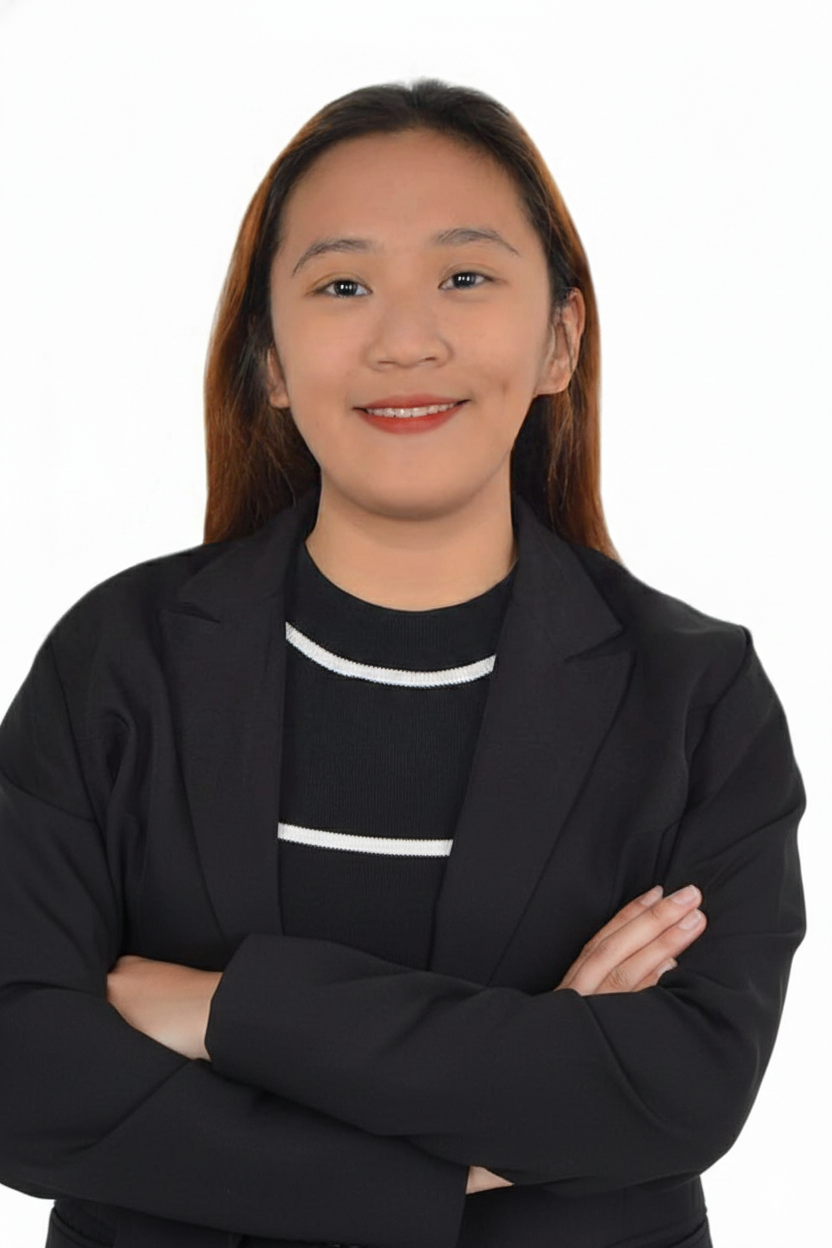
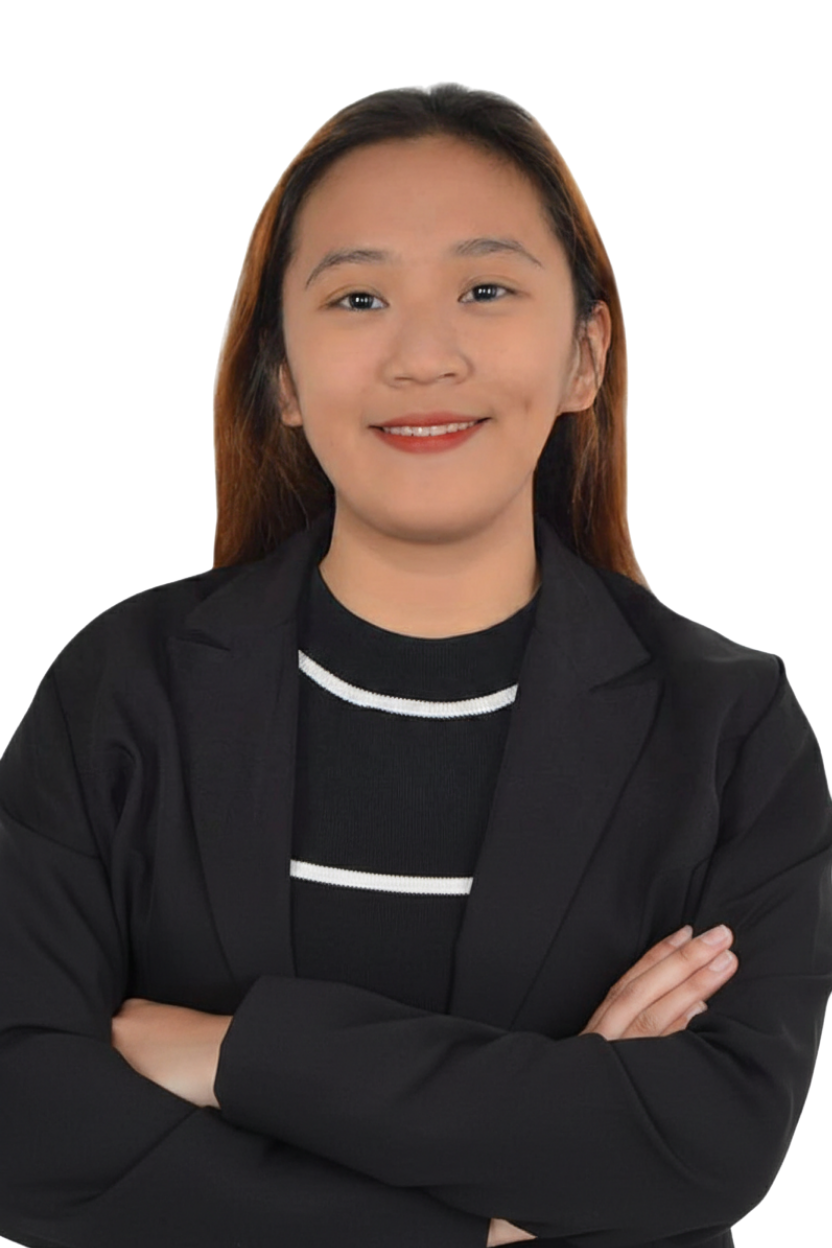
Enhance v5

diff --git a/my-portfolio/src/App.js b/my-portfolio/src/App.js
@@ -1,9 +1,10 @@
-import React, { useState } from 'react';
-import AboutMe from './AboutMePage';
+import React, { useState} from 'react';
+import AboutMe from './LearnMore';
 import userImage from './assets/profile-img.png';
+import userProfile from './assets/user-image.png';
 import resumePDF from './assets/FELICES-FEBY_CV.pdf';
 import useDarkMode from './useDarkMode';
-import { Sun, Moon } from 'lucide-react';
+
 
 // Import Certificate PDFs
 import ccna1PDF from './assets/CCNA_1.pdf';
@@ -17,7 +18,8 @@ import {
   Mail, Phone, ExternalLink, Globe, Shield, 
   Award, ChevronRight, Zap, Github, Linkedin,
   Heart, Brain, Settings, CheckCircle, FileText, 
-  Trophy, BookOpen, Star, X, Cpu 
+  Trophy, BookOpen, Star, X, Cpu, User,
+  Sun, Moon
 } from 'lucide-react';
 
 function App() {
@@ -61,11 +63,12 @@ function App() {
 
             {/* Right Side Items */}
             <div className="hidden md:flex gap-8 text-sm font-bold uppercase tracking-widest text-slate-600 dark:text-slate-300 items-center">
-              <a href="#about" className="hover:text-rose-500 dark:hover:text-rose-400 transition-colors">About</a>
+              <a href="#home" className="hover:text-rose-500 dark:hover:text-rose-400 transition-colors">Home</a>
+              <a href="#about-me" className="hover:text-rose-500 dark:hover:text-rose-400 transition-colors">About</a>
               <a href="#skills" className="hover:text-rose-500 dark:hover:text-rose-400 transition-colors">Skills</a>
               <a href="#awards" className="hover:text-rose-500 dark:hover:text-rose-400 transition-colors">Awards</a>
               <a href="#projects" className="hover:text-rose-500 dark:hover:text-rose-400 transition-colors">Projects</a>
-              {/* Contact Button */}
+                {/* Contact Button */}
               <a 
                 href="#contact" 
                 className="bg-rose-500 text-white px-6 py-2.5 rounded-full hover:bg-rose-600 transition-all shadow-lg shadow-rose-200 dark:shadow-none active:scale-95"
@@ -87,7 +90,7 @@ function App() {
         </nav>
 
       {/* Hero Section */}
-      <header id="about" className="pt-48 pb-24 px-6 max-w-7xl mx-auto flex flex-col lg:flex-row-reverse items-center gap-16">
+      <header id="home" className="pt-48 pb-24 px-6 max-w-7xl mx-auto flex flex-col lg:flex-row-reverse items-center gap-16">
         <div className="flex-1 text-center lg:text-left">
           <div className="inline-block px-4 py-1 mb-6 text-xs font-bold tracking-widest text-rose-600 bg-rose-50 rounded-full uppercase border border-rose-100">
             4th Year BSIT Student @ BukSU
@@ -99,12 +102,7 @@ function App() {
           <p className="text-lg md:text-xl text-slate-500 dark:text-slate-400 font-medium max-w-2xl leading-relaxed mb-10">
           Highly skilled in <span className="text-slate-900 dark:text-white border-b-4 border-rose-200">Full-Stack Development</span>, 
           QA, and Project Management.
-            <button 
-              onClick={() => setIsAboutPage(true)} // <--- TRIGGER SWITCH
-              className="ml-2 text-rose-500 font-bold hover:text-rose-600 hover:underline inline-flex items-center gap-1 transition-all"
-            >
-              Learn more about me <ChevronRight size={18} />
-            </button>
+            
           </p>
           <div className="flex flex-wrap gap-4 justify-center lg:justify-start">
             <a href={resumePDF} download className="flex items-center gap-3 bg-slate-900 text-white px-8 py-4 rounded-2xl font-bold hover:scale-105 transition-all shadow-xl group">
@@ -115,24 +113,128 @@ function App() {
             </a>
           </div>
         </div>
+        {/* Hero Circular Portrait */}
         <div className="flex-1 flex justify-center lg:justify-start relative">
           <div className="relative w-72 h-72 md:w-96 md:h-96">
-            <div className="absolute inset-0 bg-rose-400/20 rounded-[3rem] blur-3xl -z-10 animate-pulse" />
-            <div className="w-full h-full rounded-[3.5rem] p-3 border-2 border-rose-100 bg-white shadow-2xl -rotate-2 hover:rotate-0 transition-transform duration-500">
-              <div className="w-full h-full rounded-[2.8rem] overflow-hidden bg-rose-50 border border-rose-100">
-                <img src={userImage} alt="Feby Angela Felices" className="w-full h-full object-cover grayscale hover:grayscale-0 transition-all duration-700" />
-              </div>
+            <div className="absolute inset-0 bg-rose-400/20 rounded-full blur-3xl -z-10 animate-pulse" />
+            <div className="w-full h-full rounded-full p-3 border-2 border-dashed border-rose-200 dark:border-slate-800 animate-[spin_20s_linear_infinite]" />
+            <div className="absolute inset-3 rounded-full overflow-hidden bg-white dark:bg-slate-900 shadow-2xl border-4 border-white dark:border-slate-800">
+               <img 
+                 src={userImage} 
+                 alt="Feby Angela" 
+                 className="w-full h-full object-cover grayscale hover:grayscale-0 transition-all duration-700 hover:scale-110" 
+               />
             </div>
-            <div className="absolute -bottom-6 -right-6 bg-white p-4 rounded-2xl shadow-xl border border-rose-50 flex items-center gap-3 animate-bounce">
+            <div className="absolute -bottom-2 -right-2 bg-white dark:bg-slate-800 p-4 rounded-2xl shadow-xl border border-rose-50 dark:border-slate-700 flex items-center gap-3 animate-bounce z-20">
               <div className="p-2 bg-rose-500 rounded-lg text-white"><Award size={20} /></div>
-              <p className="text-xs font-black text-slate-800">Full Stack & Project Manager</p>
+              <p className="text-xs font-black text-slate-800 dark:text-white">Full Stack & Project Manager</p>
             </div>
           </div>
         </div>
       </header>
 
-      {/* Skills Section */}
-      <section id="skills" className="py-24 px-6 max-w-7xl mx-auto">
+{/* Aesthetic About Me Section */}
+<section id="about-me" className="py-32 px-6 max-w-7xl mx-auto scroll-mt-20">
+  <div className="relative">
+    {/* Swapped order: Text on top for mobile (reverse), Portrait on right for desktop */}
+    <div className="flex flex-col-reverse lg:flex-row items-center gap-12 lg:gap-0">
+      
+      {/* Left Side: Content Area (No card background/border) */}
+      <div className="lg:w-3/5 py-10 lg:pr-20 flex flex-col justify-center relative z-20 text-left">
+        <div className="space-y-2 mb-8">
+          <p className="text-rose-500 font-black uppercase tracking-[0.4em] text-[10px]">Biographical</p>
+          <h2 className="text-5xl md:text-6xl font-black text-slate-900 dark:text-white leading-tight">
+            Behind the <span className="italic font-serif text-rose-500">Code.</span>
+          </h2>
+        </div>
+
+        <p className="text-xl text-slate-600 dark:text-slate-300 leading-relaxed mb-10 max-w-xl">
+          I am a 4th-year IT student at <span className="text-slate-900 dark:text-white font-bold underline decoration-rose-500/30 decoration-4">Bukidnon State University</span>. 
+          I specialize in bridging technical logic with human-centered design. 
+          I don't just build software; I engineer <span className="text-rose-500 font-medium">reliable experiences</span>.
+        </p>
+
+        {/* Minimalist Info Grid */}
+        <div className="grid grid-cols-2 gap-12 text-left">
+          <div className="space-y-1">
+            <p className="text-[10px] font-black uppercase text-slate-400 tracking-widest">Current Role</p>
+            <p className="text-slate-900 dark:text-slate-100 font-bold text-lg leading-tight">BSIT Senior Student</p>
+          </div>
+          <div className="space-y-1">
+            <p className="text-[10px] font-black uppercase text-slate-400 tracking-widest">Core Focus</p>
+            <p className="text-slate-900 dark:text-slate-100 font-bold text-lg leading-tight">Full-Stack & PM</p>
+          </div>
+        </div>
+
+        {/* --- SELF-ANIMATING "LEARN MORE" BUTTON --- */}
+        <div className="mt-20">
+          <button 
+            onClick={() => setIsAboutPage(true)}
+            className="group relative inline-flex items-center gap-6 text-slate-900 dark:text-white font-black uppercase tracking-[0.2em] text-[10px] transition-all duration-500"
+          >
+            <div className="relative flex items-center justify-center">
+              {/* Breathing Line Animation (Defined in CSS) */}
+              <span className="h-[1px] bg-rose-500 animate-breathe group-hover:animate-none group-hover:w-24 group-hover:bg-rose-600 transition-all duration-500 ease-out"></span>
+              <span className="absolute -right-1 w-3 h-3 bg-rose-500/20 rounded-full animate-ping"></span>
+              <span className="absolute -right-1 w-1.5 h-1.5 bg-rose-500 rounded-full shadow-[0_0_10px_rgba(244,63,94,0.8)]"></span>
+            </div>
+            
+            <span className="relative overflow-hidden group-hover:translate-x-2 group-hover:text-rose-500 transition-all duration-500 ease-out">
+              <span className="relative z-10">Learn More</span>
+              <span className="absolute inset-0 w-full h-full bg-gradient-to-r from-transparent via-rose-400/20 to-transparent -translate-x-full animate-[shimmer_4s_infinite] pointer-events-none"></span>
+            </span>
+          </button>
+        </div>
+      </div>
+
+      {/* Right Side: OVERLAPPING Portrait Area */}
+      <div className="lg:w-2/5 relative flex items-center justify-center lg:justify-end lg:pr-12">
+        
+        {/* Animated Glow behind the floating person */}
+        <div className="absolute top-1/2 left-1/2 -translate-x-1/2 -translate-y-1/2 w-[120%] h-[120%] bg-rose-500/10 dark:bg-rose-500/5 rounded-full blur-[120px] animate-pulse pointer-events-none" />
+
+        <div className="relative z-30 group lg:pointer-events-auto pointer-events-none">
+          {/* THE IMAGE: Pops out of the section flow */}
+          <img 
+            src={userProfile} 
+            alt="Feby Angela" 
+            className="w-auto h-[500px] md:h-[620px] object-contain drop-shadow-[0_30px_60px_rgba(0,0,0,0.15)] 
+                       transition-all duration-1000 cubic-bezier(0.4, 0, 0.2, 1)
+                       group-hover:scale-[1.05] group-hover:-translate-y-8 lg:-mt-24
+                       grayscale-[30%] group-hover:grayscale-0" 
+          />
+          
+          {/* Floating status tag - Located at Bottom Right */}
+          <div className="absolute bottom-20 -right-6 lg:-right-10 z-40 transition-all duration-1000 group-hover:-translate-y-12 group-hover:-translate-x-4">
+            <div className="flex items-center gap-3 bg-white/10 dark:bg-black/40 backdrop-blur-xl border border-white/20 px-5 py-3 rounded-2xl shadow-2xl">
+              <div className="relative flex h-2 w-2">
+                <div className="animate-ping absolute inline-flex h-full w-full rounded-full bg-emerald-400 opacity-75"></div>
+                <div className="relative inline-flex rounded-full h-2 w-2 bg-emerald-500"></div>
+              </div>
+              <p className="text-[9px] font-black text-white uppercase tracking-[0.2em]">Ready to Work</p>
+            </div>
+          </div>
+        </div>
+      </div>
+
+    </div>
+  </div>
+</section>
+
+<div className="relative h-12 flex justify-center items-center pointer-events-none -my-4">
+  {/* A very short vertical guide line */}
+  <div className="w-px h-full bg-gradient-to-b from-rose-500/50 to-transparent" />
+</div>
+
+
+    {/* Skills Section - Reduced top padding to "connect" it */}
+    <section id="skills" className="pt-0 pb-24 px-6 max-w-7xl mx-auto">
+    <div className="flex items-center gap-4 mb-10">
+      <div className="h-px w-8 bg-rose-500/50" />
+      <span className="text-[10px] font-black uppercase tracking-[0.3em] text-rose-500/70">
+        Technical Toolkit
+      </span>
+    </div>
         <div className="grid grid-cols-1 lg:grid-cols-2 gap-12">
           <div className="bg-white p-10 rounded-[3rem] border border-rose-50 shadow-sm">
             <div className="flex items-center gap-4 mb-8">

diff --git a/my-portfolio/src/index.css b/my-portfolio/src/index.css
@@ -36,3 +36,23 @@
 html {
   scroll-behavior: smooth;
 }
+
+/* Add this to your CSS file */
+@keyframes breathe {
+  0%, 100% { width: 48px; opacity: 0.6; }
+  50% { width: 64px; opacity: 1; }
+}
+
+.animate-breathe {
+  animation: breathe 3s ease-in-out infinite;
+}
+
+@keyframes marquee {
+  0% { transform: translateX(0%); }
+  100% { transform: translateX(-50%); }
+}
+
+.animate-marquee {
+  animation: marquee 30s linear infinite;
+}
+
